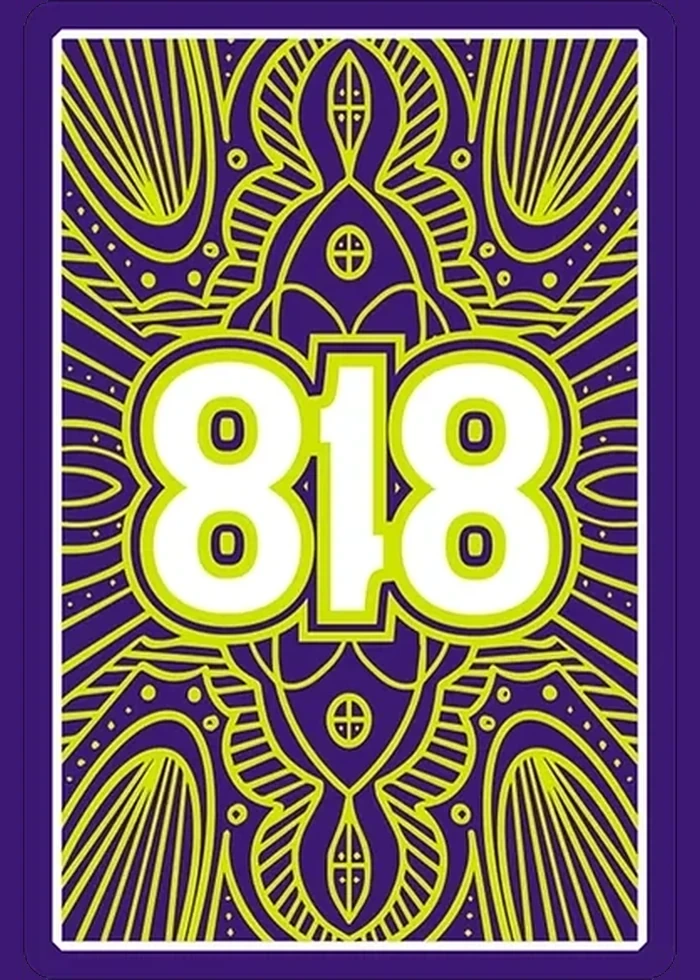
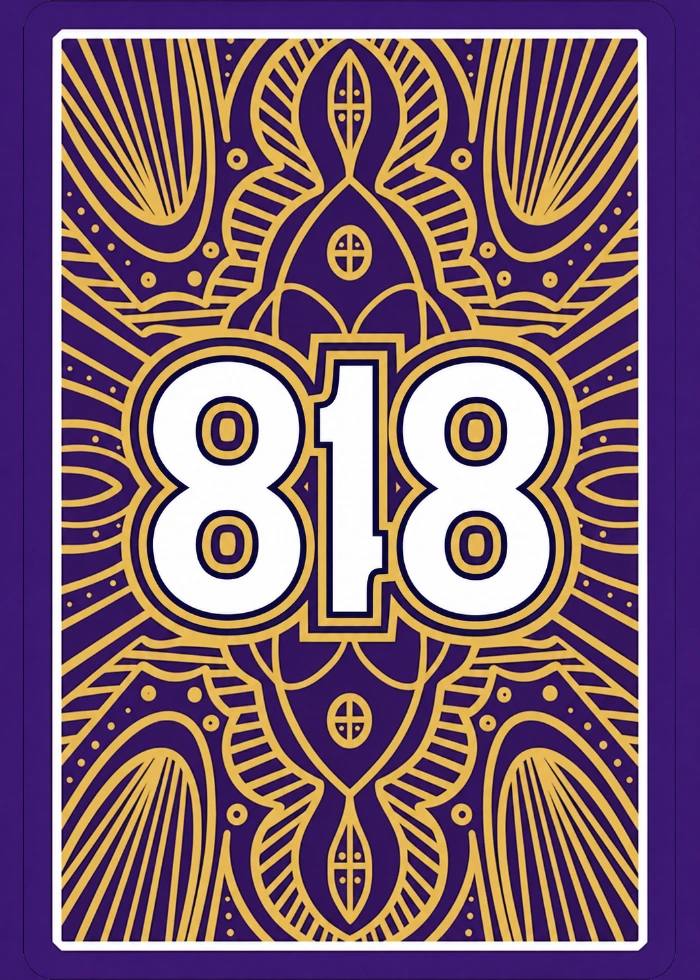
Polish readability and two-player Canasta for the draft

diff --git a/public/assets/porch-ledger.css b/public/assets/porch-ledger.css
@@ -2802,7 +2802,7 @@ html.porch-ledger .bp-cloud-preview-notice::before { content: "☁"; color: var(
 @media (max-width: 600px) {
   /* Phone: the sample tip is one row (text beside Got it) so it no longer covers the logo under it. */
   html.porch-ledger #bpg-try-demo-tip { display: flex !important; flex-direction: row !important; flex-wrap: nowrap !important; gap: 10px !important; padding: 6px 12px !important; }
-  html.porch-ledger #bpg-try-demo-tip > :first-child { flex: 1 1 auto; min-width: 0; font-size: 13px; line-height: 1.35; }
+  html.porch-ledger #bpg-try-demo-tip > :first-child { flex: 1 1 auto; min-width: 0; font-size: var(--bp-type-sm); line-height: 1.35; }
   html.porch-ledger #bpg-try-demo-tip button { flex: 0 0 auto; }
   html.porch-ledger.bpg-try-demo.bpg-try-demo-tip { --bp-demo-offset: 116px; padding-top: 116px !important; }
 }
@@ -3334,9 +3334,6 @@ html.porch-ledger.slice2-tv .s2-home-table .s2-pick:not(.is-on) {
   background: var(--ledger-paper) !important;
 }
 
-html.porch-ledger.slice2-tv .s2-home-start .s2-card-frame[data-card-art="818"] {
-  --bp-card-photo-filter: saturate(.7) hue-rotate(-13deg) brightness(.97);
-}
 html.porch-ledger.slice2-tv .s2-home-start .s2-game.is-selected .s2-card-frame {
   box-shadow: 0 0 0 3px #f9cf73 !important;
 }
@@ -3401,14 +3398,14 @@ html.porch-ledger.slice2-tv #score-entry-modal.hf-basic-entry .hf-match-num {
     max-width: none !important;
   }
   html.porch-ledger.slice2-tv body.active-match-view #game-screen[data-game="Hand and Foot"] #scorecard-capture:has(#scorecard-body tr:nth-child(2):last-child) #scorecard-body td {
-    height: clamp(135px, 18vh, 205px);
+    height: clamp(96px, 12vh, 145px);
   }
   html.porch-ledger.slice2-tv body.active-match-view #game-screen[data-game="Hand and Foot"] #scorecard-capture .scoreboard-player-name.hf-team-name {
     font-size: clamp(1.3rem, 2.15vw, 2.5rem) !important;
   }
   html.porch-ledger.slice2-tv body.active-match-view #game-screen[data-game="Hand and Foot"] #scorecard-capture .hf-team-avatars .avatar-img-sc {
-    width: clamp(34px, 3.6vw, 62px) !important;
-    height: clamp(34px, 3.6vw, 62px) !important;
+    width: clamp(34px, 3.2vw, 48px) !important;
+    height: clamp(34px, 3.2vw, 48px) !important;
   }
   html.porch-ledger.slice2-tv body.active-match-view #game-screen[data-game="Hand and Foot"] #scorecard-capture .scorecard-total-value {
     font-size: clamp(2.25rem, 3.7vw, 4.5rem) !important;
@@ -3711,5 +3708,141 @@ html.porch-ledger.slice2-tv #score-entry-modal #score-entry-context {
 
   html.porch-ledger.slice2-tv #score-entry-modal.score-entry-plain .score-entry-keypad .score-entry-key:is(.subtle, .next) {
     font-size: clamp(20px, 1.35vw, 26px) !important;
+  }
+}
+
+/* Small labels that communicate a status or explain a control share the text scale. */
+html.porch-ledger.slice2-tv :is(.s2-home-table, .s2-board-line-row) #save-indicator,
+html.porch-ledger #bpg-try-demo-bar strong,
+html.porch-ledger #bpg-try-demo-tip,
+html.porch-ledger :is(.bpg-try-demo-entry-note, #bpg-try-demo-about p, #bpg-try-demo-backup-note) {
+  font-size: var(--bp-type-sm) !important;
+  line-height: 1.35 !important;
+}
+
+html.porch-ledger.slice2-tv .s2-home-table #save-indicator:not([hidden]) {
+  height: auto !important;
+  padding: 4px 10px !important;
+  white-space: normal !important;
+  overflow-wrap: anywhere;
+  letter-spacing: 0 !important;
+  text-transform: none !important;
+}
+
+html.porch-ledger #bpg-try-demo-bar button,
+html.porch-ledger #bpg-try-demo-tip button,
+html.porch-ledger #bpg-try-demo-about .bpg-kicker,
+html.porch-ledger #actions-menu .actions-menu-label,
+html.porch-ledger #end-match-modal .bp-leave-danger-note {
+  font-size: var(--bp-type-xs) !important;
+}
+
+html.porch-ledger.slice2-tv #reorder-players-modal .player-name-label {
+  color: var(--ledger-ink) !important;
+  font-size: clamp(1.3125rem, 2.25vw, 2rem) !important;
+  line-height: 1.2;
+  text-align: left;
+}
+
+html.porch-ledger.slice2-tv #wheel-modal .wheel-shell {
+  flex-shrink: 0;
+  max-width: 100%;
+  margin-inline: auto;
+}
+
+html.porch-ledger.slice2-tv #wheel-modal .wheel-legend {
+  font-size: var(--bp-type-xs) !important;
+}
+
+#canasta-together {
+  width: 100%;
+  max-width: var(--bp-board-max);
+  box-sizing: border-box;
+  margin: 12px auto 0;
+  padding: clamp(1rem, 2vw, 1.75rem);
+  border: 1px solid var(--ledger-line);
+  border-radius: var(--ledger-radius-sheet);
+  background: var(--ledger-paper);
+  color: var(--ledger-ink);
+}
+
+#canasta-together:not(.hidden) {
+  display: flex;
+  flex-wrap: wrap;
+  align-items: center;
+  justify-content: space-between;
+  gap: 1rem 2rem;
+}
+
+#canasta-together h2 {
+  font-family: var(--ledger-type-display);
+  font-size: clamp(1.35rem, 2vw, 2.25rem);
+  line-height: 1.15;
+}
+
+#canasta-together p {
+  margin-top: 0.35em;
+  font-size: var(--bp-type-md);
+  color: var(--ledger-ink-soft);
+}
+
+#canasta-together .canasta-together-score {
+  font-size: clamp(1.15rem, 1.65vw, 1.85rem);
+  font-weight: 800;
+  font-variant-numeric: tabular-nums;
+  overflow-wrap: anywhere;
+}
+
+@media (max-width: 899px), (max-height: 749px) {
+  #canasta-together:not(.hidden) {
+    display: none;
+  }
+}
+
+@media (min-width: 900px) and (min-height: 650px) {
+  html.porch-ledger.slice2-tv body.active-match-view #game-screen[data-game="Hand and Foot"] #scorecard-capture.canasta-singles-pair #scorecard-body td {
+    height: clamp(120px, 22dvh, 285px) !important;
+  }
+
+  html.porch-ledger.slice2-tv #scorecard-capture.canasta-singles-pair .scorecard-player-identity .scoreboard-player-name {
+    font-size: clamp(1.75rem, 2.8vw, 3.5rem) !important;
+  }
+
+  html.porch-ledger.slice2-tv #scorecard-capture.canasta-singles-pair .scorecard-player-identity .avatar-img-sc {
+    width: clamp(3.25rem, 5vw, 6.125rem) !important;
+    height: clamp(3.25rem, 5vw, 6.125rem) !important;
+  }
+
+  html.porch-ledger.slice2-tv body.active-match-view #game-screen[data-game="Hand and Foot"] #scorecard-capture.canasta-singles-pair .scorecard-total-value {
+    font-size: clamp(2.5rem, 4.1vw, 5.75rem) !important;
+  }
+}
+
+@media (min-width: 900px) and (min-height: 750px) {
+  html.porch-ledger.slice2-tv body.active-match-view #game-screen[data-game="Hand and Foot"] #scorecard-capture.canasta-singles-pair:has(+ #canasta-together:not(.hidden)) #scorecard-body td {
+    height: clamp(120px, 18dvh, 225px) !important;
+  }
+}
+
+html.porch-ledger.slice2-tv :is(.s2-home-standings, .s2-home-table) .s2-dealer-tag:not(.s2-dealer-tag-empty),
+html.porch-ledger.slice2-tv #score-entry-modal :is(.score-entry-up-now, .score-entry-dealer-badge),
+html.porch-ledger.slice2-tv #score-entry-modal:not(.score-entry-hand-foot) .score-entry-meta-label {
+  font-size: var(--bp-type-xs) !important;
+}
+
+html.porch-ledger.slice2-tv #hall-of-fame-view :is(.s2-segment .s2-btn, .s2-shame-sub, .s2-rival-pick),
+html.porch-ledger #profiles-screen .profile-avatar-quick-btn,
+html.porch-ledger #settings-text-size-label,
+html.porch-ledger #life-preserver-help h4 {
+  font-size: var(--bp-type-sm) !important;
+}
+
+@media (min-width: 761px) {
+  html.porch-ledger #wheel-modal :is(#wheel-player-meta, #wheel-commit-line, #wheel-odds-line, #wheel-best-place) {
+    font-size: var(--bp-type-md) !important;
+  }
+
+  html.porch-ledger #wheel-modal .wheel-legend .wheel-legend-chip {
+    font-size: var(--bp-type-sm) !important;
   }
 }

diff --git a/public/index.html b/public/index.html
@@ -10334,6 +10334,7 @@ button.dealer-name-indicator .dealer-player-label {
             <button type="button" onclick="if (currentGame && isMatchOver(currentGame)) commitEndGame()" class="btn-primary px-12 py-4 text-xl">See results</button>
           </div>
         </div>
+        <section id="canasta-together" class="surface-raised hidden" aria-labelledby="canasta-together-title"></section>
       </div>
 
       <!-- Portrait: Podium + Records -->
@@ -11829,7 +11830,7 @@ button.dealer-name-indicator .dealer-player-label {
   }
   function retiredBadgeMarkup(gameData, player){
     if(!player || !(gameData?.retired||[]).includes(player)) return '';
-    return `<span class="retired-badge">Left early</span>`;
+    return `<span class="scoreboard-rank-badge retired-badge">Left early</span>`;
   }
   const EIGHT18_ROUND_TRICKS = [8,7,6,5,4,3,2,1,2,3,4,5,6,7,8];
   function isEight18Game(game=currentGame){
@@ -17653,7 +17654,7 @@ ${isDealer
         </div>
         <span class="text-2xl w-10 font-mono-num shrink-0 text-center" style="color:var(--ink);">${i + 1}</span>
         ${getAvatarImg(p, 'avatar-img')}
-        <span class="player-name-label text-2xl truncate min-w-0 flex-1">${p}</span>
+        <span class="player-name-label text-2xl truncate min-w-0 flex-1" title="${escapeHtml(p)}">${escapeHtml(p)}</span>
       </div>
     `).join('');
   }
@@ -17942,6 +17943,37 @@ ${isDealer
       gnPerfEnd(trimTimer);
     }
   }
+  function paintCanastaTogether(game, roster){
+    const panel=document.getElementById('canasta-together');
+    const root=document.getElementById('scorecard-capture');
+    const singles=isHandFootGame(game)&&game.handFoot?.format==='singles'
+      &&roster.length===2&&game.originalRoster?.length===2;
+    root.classList.toggle('canasta-singles-pair',singles);
+    panel.classList.add('hidden');
+    panel.replaceChildren();
+    if(!singles||isMatchOver(game))return;
+    const [left,right]=roster;
+    const normalize=name=>String(name).trim().toLowerCase();
+    const pair=roster.map(normalize);
+    const matches=history.filter(match=>{
+      if(match.id===game.id||match.game!=='Hand and Foot'||!BPGScorebook.countsForScoreMagnitude(match)||!match.rounds?.length)return false;
+      const saved=match.originalRoster||match.players||[];
+      return (!match.handFoot?.format||match.handFoot.format==='singles')&&saved.length===2
+        &&pair.every(name=>saved.some(player=>normalize(player)===name));
+    });
+    if(!matches.length)return;
+    const latest=matches.reduce((newest,match)=>
+      (Date.parse(match.date)||0)>(Date.parse(newest.date)||0)?match:newest);
+    const total=name=>{
+      const entry=Object.entries(latest.totals||{}).find(([player])=>normalize(player)===normalize(name));
+      return entry&&Number.isFinite(Number(entry[1]))?Number(entry[1]).toLocaleString():'—';
+    };
+    panel.innerHTML=`<div><h2 id="canasta-together-title">Canasta together</h2>
+      <p>${matches.length} completed ${matches.length===1?'match':'matches'}</p></div>
+      <div><p>Last match</p><p class="canasta-together-score">${escapeHtml(left)} ${total(left)} <span aria-hidden="true">·</span> ${escapeHtml(right)} ${total(right)}</p></div>`;
+    panel.classList.remove('hidden');
+  }
+
   function fitActiveScorecardRows(){
     const fitTimer = gnPerfStart('GN scorecard row fit');
     try{
@@ -19135,6 +19167,7 @@ ${isDealer
     const bodyAssignTimer = gnPerfStart('GN renderGame dom assign');
     try{
       document.getElementById('scorecard-body').innerHTML=body;
+      paintCanastaTogether(currentGame,getActivePlayers(currentGame));
       renderRecordChasePanel(sortedP,cfg,leaderScore);
       if(rookPanel){rookPanel.classList.add('hidden');rookPanel.innerHTML='';}
     } finally {
@@ -23045,7 +23078,7 @@ ${isDealer
       const w=!!opts.winner;
       const left=!!opts.leftEarly;
       body+=`<tr class="${w?'leader-row':''}${left?' row-retired':''}">
-        <td data-sc-part="lead" class="scorecard-col-player player-name-label px-4 py-2 sticky left-0" style="background:${w?'var(--emerald-bg)':(left?'var(--surface-2)':'var(--surface)')};">${w?'🏆 ':''}${p}${left?' <span class="retired-badge">Left early</span>':''}${lateJoinNoteMarkup(g,p)}</td>
+        <td data-sc-part="lead" class="scorecard-col-player player-name-label px-4 py-2 sticky left-0" style="background:${w?'var(--emerald-bg)':(left?'var(--surface-2)':'var(--surface)')};">${w?'🏆 ':''}${p}${left?' <span class="scoreboard-rank-badge retired-badge">Left early</span>':''}${lateJoinNoteMarkup(g,p)}</td>
         <td data-sc-part="lead" class="scorecard-col-total px-2 py-2 font-extrabold tv-stat-num font-mono-num ${w?'leader-text':''}"><span class="scorecard-total-value">${g.totals[p]??'—'}</span>${left?'':hiddenLifePreserverMarkup(g.rounds, historyVisibleRounds, p)}</td>`;
       g.rounds?.forEach((r,rIdx)=>{
         if(r.hailMaryBonus) return;

diff --git a/public/assets/slice2.js b/public/assets/slice2.js
@@ -1015,38 +1015,21 @@
     const dialog = modal?.querySelector('.life-preserver-dialog');
     const shell = dialog?.querySelector('.wheel-shell');
     if (!modal || !dialog || !shell || modal.classList.contains('hidden')) return null;
-    const previous = parseFloat(shell.style.height);
-    shell.style.width = '';
-    shell.style.height = '';
+    // Measure the rendered panel with the wheel collapsed. The theme can cap
+    // the panel width independently of the available viewport.
+    shell.style.width = '0px';
+    shell.style.height = '0px';
     const vw = window.innerWidth;
-    const vh = window.innerHeight;
-    const gutter = 8;
-    const landscape = vw > vh;
-    const dialogW = Math.floor(landscape ? Math.min(vw - gutter, vh - gutter) : vw - gutter);
-    const dialogH = Math.floor(vh - gutter);
-    dialog.style.width = `${dialogW}px`;
-    dialog.style.maxWidth = `${dialogW}px`;
-    dialog.style.maxHeight = `${dialogH}px`;
-    dialog.style.minHeight = '';
+    const vh = window.visualViewport?.height || window.innerHeight;
     const cs = getComputedStyle(dialog);
-    const padX = (parseFloat(cs.paddingLeft) || 0) + (parseFloat(cs.paddingRight) || 0);
-    const padY = (parseFloat(cs.paddingTop) || 0) + (parseFloat(cs.paddingBottom) || 0);
-    let chrome = padY;
-    [...dialog.children].forEach((el) => {
-      if (el === shell || el.id === 'life-preserver-help') return;
-      if (el.classList.contains('hidden')) return;
-      const style = getComputedStyle(el);
-      if (style.display === 'none' || style.visibility === 'hidden') return;
-      if (style.position === 'absolute' || style.position === 'fixed') return;
-      const box = el.getBoundingClientRect();
-      if (box.height < 1) return;
-      chrome += box.height;
-      chrome += (parseFloat(style.marginTop) || 0) + (parseFloat(style.marginBottom) || 0);
-    });
-    const availW = Math.max(168, dialogW - padX);
-    const availH = Math.max(168, dialogH - chrome);
-    let size = Math.floor(Math.min(availW, availH));
-    if (Number.isFinite(previous) && previous > 0) size = Math.min(size, previous);
+    const padX = parseFloat(cs.paddingLeft) + parseFloat(cs.paddingRight);
+    const borderY = parseFloat(cs.borderTopWidth) + parseFloat(cs.borderBottomWidth);
+    const dialogW = dialog.clientWidth;
+    const dialogH = Math.min(vh - 8, parseFloat(cs.maxHeight) || vh - 8) - borderY;
+    const chrome = dialog.scrollHeight;
+    const availW = Math.max(0, dialogW - padX);
+    const availH = Math.max(0, dialogH - chrome);
+    let size = Math.floor(Math.min(availW, Math.max(144, availH - 8)));
     shell.style.width = `${size}px`;
     shell.style.height = `${size}px`;
     const contentOverflow = () => {
@@ -1064,10 +1047,9 @@
     for (let i = 0; i < 8; i++) {
       const overflow = contentOverflow();
       if (overflow <= 0) break;
-      size = Math.max(168, size - Math.ceil(overflow + 4));
+      size = Math.max(Math.min(144, availW), size - Math.ceil(overflow + 4));
       shell.style.width = `${size}px`;
       shell.style.height = `${size}px`;
-      chrome += overflow + 4;
     }
     return { size, chrome, vw, vh, availW, availH, dialogW, dialogH };
   }
